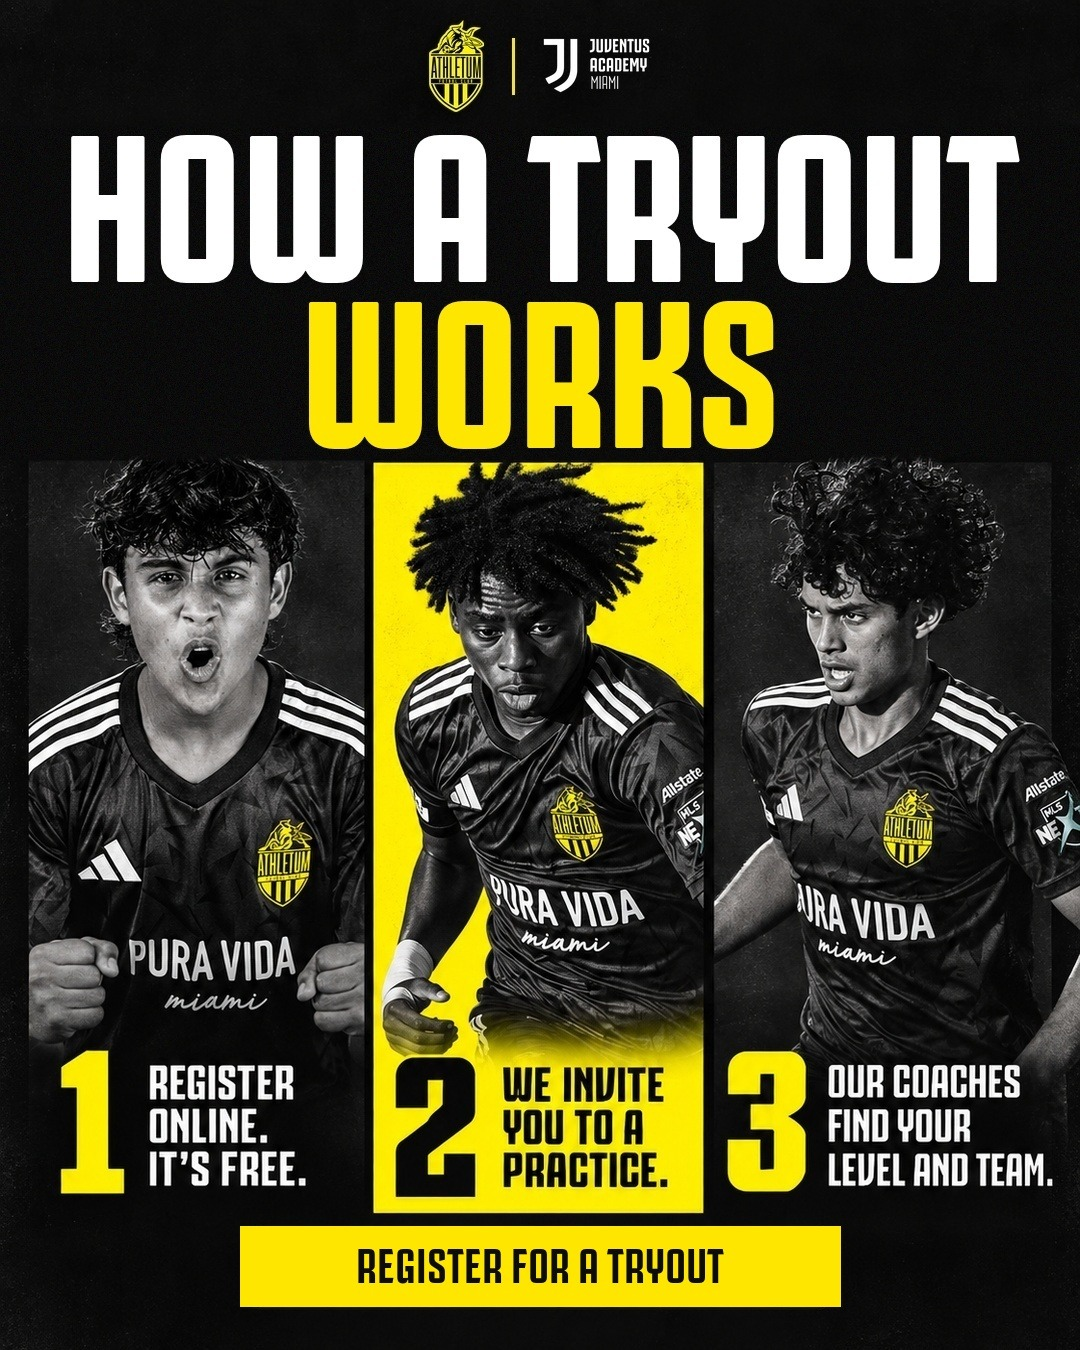
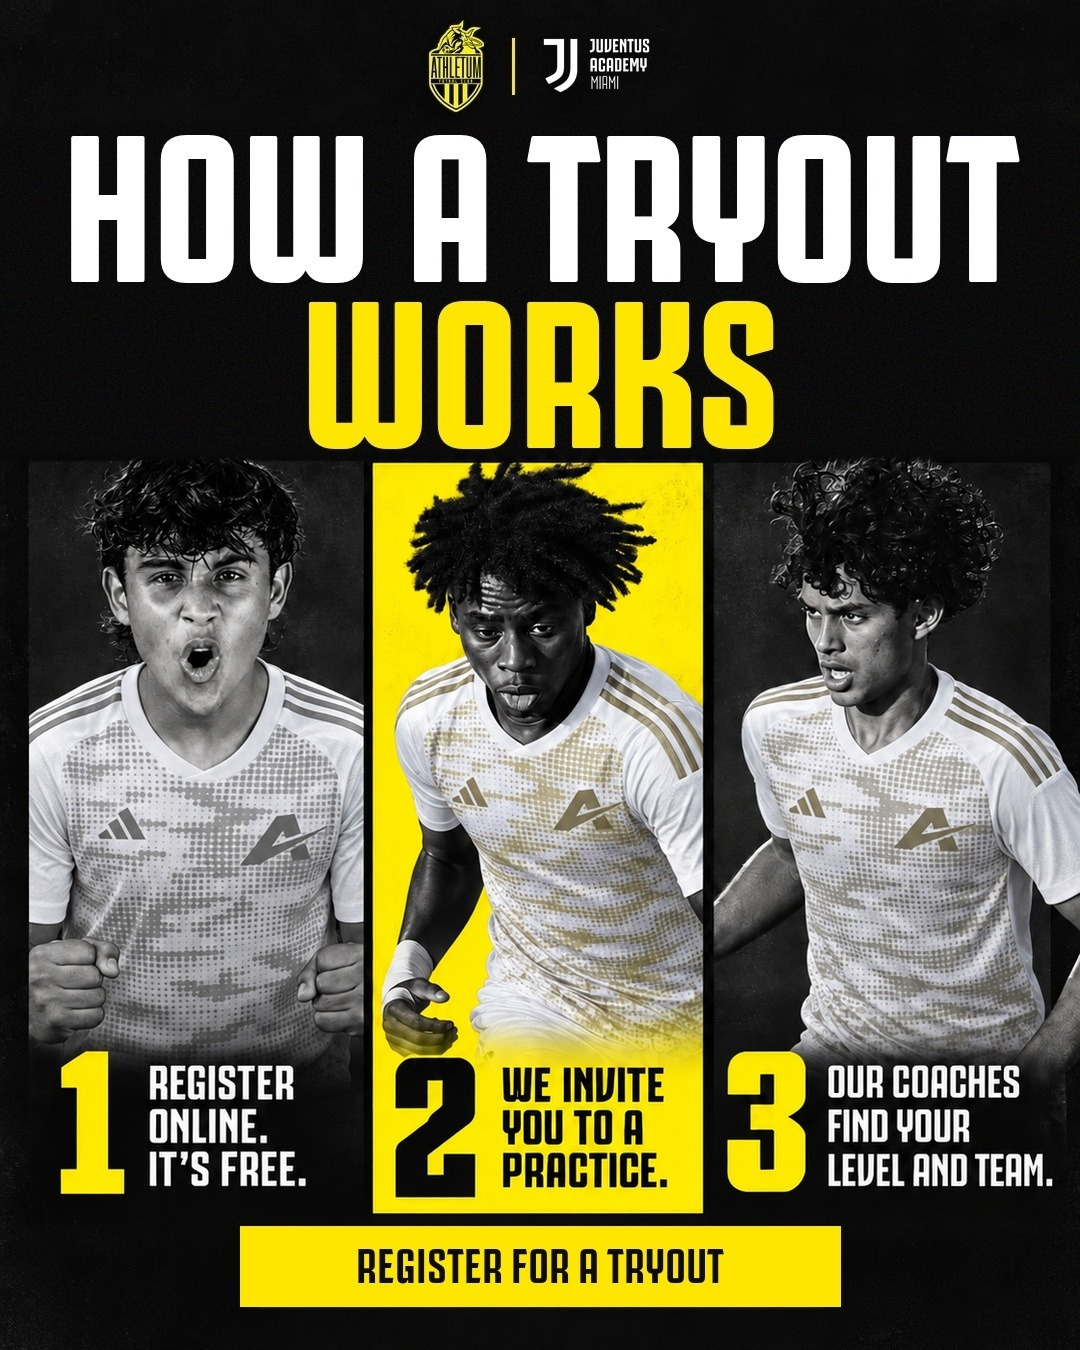
Correcciones de Alessandro (16-10): Pathway v3, How it works v3 con camiseta 2026-27, From Miami to Europe; HERO aprobado

diff --git a/index.html b/index.html
@@ -61,13 +61,14 @@ footer{margin-top:40px;color:var(--muted);font-size:14px;border-top:1px solid va
   </dl>
 </div>
 <p class="como"><b>Qué cambió:</b> el HERO se mantiene. Pathway y "How a tryout works" se rehicieron con ChatGPT con estilos del banco de Pinterest, y se suma un anuncio nuevo con otro enfoque: la experiencia en Italia. Todas las piezas usan jugadores reales de Athletum con su uniforme.</p>
+<p class="como"><b>Correcciones del 16-10:</b> Pathway, How a tryout works y From Miami to Europe se corrigieron según sus notas del 15-10 (cada anuncio explica qué cambió debajo de la pieza). El HERO ya está aprobado.</p>
 <p class="como"><b>Cómo aprobar:</b> si el texto está bien, botón <b>Aprobar</b>. Para corregir el texto o el título, se escribe directamente sobre ellos; el botón pasa a <b>Aprobar con texto corregido</b> y se guarda la versión nueva. También se puede dejar una nota sin aprobar. Todo queda registrado.</p>
 <div class="todo"><span class="cuenta"></span><button type="button">Aprobar todos los que faltan</button></div>
 <article class="ad base" data-id="S1">
   <header><span class="num">1</span><h3>STATIC-1 · HERO &quot;Your next level starts here&quot;</h3><span class="estado" data-estado>Pieza aprobada por David</span></header>
   <div class="cuerpo">
-    <div class="media"><img src="assets/S1.jpg?v=7" alt="STATIC-1 · HERO &quot;Your next level starts here&quot;" loading="lazy">
-      <a class="dl" href="assets/S1_1080.jpg?v=7" target="_blank" rel="noopener">Ver a tamaño real</a>
+    <div class="media"><img src="assets/S1.jpg?v=8" alt="STATIC-1 · HERO &quot;Your next level starts here&quot;" loading="lazy">
+      <a class="dl" href="assets/S1_1080.jpg?v=8" target="_blank" rel="noopener">Ver a tamaño real</a>
       <p class="nota-pieza">Se mantiene (David, 13-10); textos reescritos con la misma letra gruesa de los demás anuncios. Falta aprobar el texto.</p></div>
     <div class="copy">
       <div class="lbl">Texto principal · inglés <span class="hint">· se puede editar</span></div>
@@ -87,16 +88,16 @@ footer{margin-top:40px;color:var(--muted);font-size:14px;border-top:1px solid va
     </div>
   </div>
 </article><article class="ad pend" data-id="S3">
-  <header><span class="num">2</span><h3>STATIC-3 · PATHWAY &quot;One club. The whole pathway.&quot;</h3><span class="estado" data-estado>Nueva · por aprobar</span></header>
+  <header><span class="num">2</span><h3>STATIC-3 · PATHWAY &quot;One club. The whole pathway.&quot;</h3><span class="estado" data-estado>Corregida 16-10 · por aprobar</span></header>
   <div class="cuerpo">
-    <div class="media"><img src="assets/S3.jpg?v=7" alt="STATIC-3 · PATHWAY &quot;One club. The whole pathway.&quot;" loading="lazy">
-      <a class="dl" href="assets/S3_1080.jpg?v=7" target="_blank" rel="noopener">Ver a tamaño real</a>
-      <p class="nota-pieza">Rediseño con ChatGPT: escalera diagonal con los 6 niveles reales (estilo de corte diagonal del banco de Pinterest). Jugador real del MLS NEXT Fest.</p></div>
+    <div class="media"><img src="assets/S3.jpg?v=8" alt="STATIC-3 · PATHWAY &quot;One club. The whole pathway.&quot;" loading="lazy">
+      <a class="dl" href="assets/S3_1080.jpg?v=8" target="_blank" rel="noopener">Ver a tamaño real</a>
+      <p class="nota-pieza">Corregida según sus notas: camiseta de esta temporada; escalera de 3 escalones: Pre-Academy (logo Juventus Academy Miami), Division 3 · 2 · 1 · Elite (logos de EDP Florida, Florida Academy League, South Florida Premier League y National Academy League) y MLS NEXT (Academy y Homegrown juntos, con su logo). El texto también se ajustó a los 3 niveles.</p></div>
     <div class="copy">
       <div class="lbl">Texto principal · inglés <span class="hint">· se puede editar</span></div>
-      <div class="tp ed" contenteditable="true" spellcheck="true" data-campo="texto">Where does your player fit today? 🤔<br><br>Division 3, Division 2, Division 1, Elite, MLS NEXT Academy or MLS NEXT Homegrown: at Athletum FC the whole pathway is in one club, so every player trains at the right level and knows the next step.<br><br>A free tryout tells you where to start 👇</div>
+      <div class="tp ed" contenteditable="true" spellcheck="true" data-campo="texto">Where does your player fit today? 🤔<br><br>Pre-Academy, Division 3, 2, 1, Elite or MLS NEXT: at Athletum FC the whole pathway is in one club, so every player trains at the right level and knows the next step.<br><br>A free tryout tells you where to start 👇</div>
       <div class="lbl">Versión en español, para probar <span class="hint">· se puede editar</span></div>
-      <div class="tp ed es" contenteditable="true" spellcheck="true" data-campo="texto_es">¿En qué nivel está tu hijo hoy? 🤔<br><br>Division 3, 2, 1, Elite, MLS NEXT Academy o MLS NEXT Homegrown: en Athletum FC todo el camino está en un solo club, así que cada jugador entrena en su nivel y sabe cuál es el siguiente paso.<br><br>Un tryout gratis te dice por dónde empezar 👇</div>
+      <div class="tp ed es" contenteditable="true" spellcheck="true" data-campo="texto_es">¿En qué nivel está tu hijo hoy? 🤔<br><br>Pre-Academy, Division 3, 2, 1, Elite o MLS NEXT: en Athletum FC todo el camino está en un solo club, así que cada jugador entrena en su nivel y sabe cuál es el siguiente paso.<br><br>Un tryout gratis te dice por dónde empezar 👇</div>
       <div class="lbl">Título <span class="hint">· se puede editar</span></div>
       <div class="tit ed" contenteditable="true" spellcheck="true" data-campo="titulo">Register for a free tryout</div>
       <div class="lbl">Botón</div><p class="btn">Sign Up</p>
@@ -110,11 +111,11 @@ footer{margin-top:40px;color:var(--muted);font-size:14px;border-top:1px solid va
     </div>
   </div>
 </article><article class="ad pend" data-id="S4">
-  <header><span class="num">3</span><h3>STATIC-4 · HOW A TRYOUT WORKS</h3><span class="estado" data-estado>Nueva · por aprobar</span></header>
+  <header><span class="num">3</span><h3>STATIC-4 · HOW A TRYOUT WORKS</h3><span class="estado" data-estado>Corregida 16-10 · por aprobar</span></header>
   <div class="cuerpo">
-    <div class="media"><img src="assets/S4.jpg?v=7" alt="STATIC-4 · HOW A TRYOUT WORKS" loading="lazy">
-      <a class="dl" href="assets/S4_1080.jpg?v=7" target="_blank" rel="noopener">Ver a tamaño real</a>
-      <p class="nota-pieza">Rediseño con ChatGPT: tres franjas tipo &quot;Matchday&quot; (el mismo formato que se aprobó en Las Vegas), un jugador real por paso.</p></div>
+    <div class="media"><img src="assets/S4.jpg?v=8" alt="STATIC-4 · HOW A TRYOUT WORKS" loading="lazy">
+      <a class="dl" href="assets/S4_1080.jpg?v=8" target="_blank" rel="noopener">Ver a tamaño real</a>
+      <p class="nota-pieza">Corregida según su nota: los tres jugadores con la camiseta de esta temporada (mismas caras y poses; titular, logos y botón sin cambios).</p></div>
     <div class="copy">
       <div class="lbl">Texto principal · inglés <span class="hint">· se puede editar</span></div>
       <div class="tp ed" contenteditable="true" spellcheck="true" data-campo="texto">Thinking about a tryout but not sure how it works?<br><br>1. Register online, it&#x27;s free.<br>2. We invite you to a practice.<br>3. Our coaches find the right level and team for you.<br><br>No pressure, no guesswork. Start here 👇</div>
@@ -133,11 +134,11 @@ footer{margin-top:40px;color:var(--muted);font-size:14px;border-top:1px solid va
     </div>
   </div>
 </article><article class="ad pend" data-id="S5">
-  <header><span class="num">4</span><h3>STATIC-5 · NUEVO ENFOQUE &quot;From Miami to Italy&quot;</h3><span class="estado" data-estado>Nueva · por aprobar</span></header>
+  <header><span class="num">4</span><h3>STATIC-5 · NUEVO ENFOQUE &quot;From Miami to Europe&quot;</h3><span class="estado" data-estado>Corregida 16-10 · por aprobar</span></header>
   <div class="cuerpo">
-    <div class="media"><img src="assets/S5.jpg?v=7" alt="STATIC-5 · NUEVO ENFOQUE &quot;From Miami to Italy&quot;" loading="lazy">
-      <a class="dl" href="assets/S5_1080.jpg?v=7" target="_blank" rel="noopener">Ver a tamaño real</a>
-      <p class="nota-pieza">Enfoque nuevo: la experiencia internacional. Collage de papel rasgado (banco de Pinterest) con fotos reales del viaje a Italia de la temporada 2025-26 (Juventus en Vinovo y Lazio).</p></div>
+    <div class="media"><img src="assets/S5.jpg?v=8" alt="STATIC-5 · NUEVO ENFOQUE &quot;From Miami to Europe&quot;" loading="lazy">
+      <a class="dl" href="assets/S5_1080.jpg?v=8" target="_blank" rel="noopener">Ver a tamaño real</a>
+      <p class="nota-pieza">Corregida según su nota: el titular ahora dice FROM MIAMI TO EUROPE. Collage con fotos reales del viaje a Italia de la temporada 2025-26.</p></div>
     <div class="copy">
       <div class="lbl">Texto principal · inglés <span class="hint">· se puede editar</span></div>
       <div class="tp ed" contenteditable="true" spellcheck="true" data-campo="texto">Last season, our players took the field in Italy against the academies of Juventus, Roma and Lazio. 🇮🇹⚽<br><br>At Athletum FC the pathway goes beyond Miami: MLS NEXT competition at home and international experiences that show players what the next level looks like.<br><br>It all starts with one free tryout. Register in two minutes 👇</div>
@@ -155,11 +156,11 @@ footer{margin-top:40px;color:var(--muted);font-size:14px;border-top:1px solid va
       <p class="aviso" data-aviso aria-live="polite"></p>
     </div>
   </div>
-</article><footer>Athletum FC · Revisión de anuncios de la campaña de tryouts · 13-10-2026 · Página interna, no indexada.</footer>
+</article><footer>Athletum FC · Revisión de anuncios de la campaña de tryouts · actualizada el 16-10-2026 · Página interna, no indexada.</footer>
 </div>
 <script>
 const CFG={"accion": "https://docs.google.com/forms/d/e/1FAIpQLSeGUY8Cv9Ea08X9HkdznY9pzVoUc4Gj-GdymsVTFP86wbE5sw/formResponse", "entry": {"pieza": 333677581, "cuenta": 724853821, "autor": 299801437, "comentario": 1175231019, "copy_corregido": 1649408514, "copy_original": 1637675582, "enviado": 909195940, "tipo": 1605073129, "zona": 1831673234, "fila": 1327618412}, "cuenta": "athletum_tryouts"};
-const ORIG={"S1": {"texto": "Your next level starts here. ⚽\n\nAthletum FC is the competitive pathway of Juventus Academy Miami: from our competitive divisions all the way to MLS NEXT, boys and girls train with coaches who know what the next level demands.\n\nThe first step is one tryout, and it's free. Register in two minutes 👇", "texto_es": "Tu próximo nivel empieza aquí. ⚽\n\nAthletum FC es el camino competitivo de Juventus Academy Miami: desde las divisiones competitivas hasta MLS NEXT, con entrenadores que saben lo que exige el siguiente nivel.\n\nEl primer paso es un tryout, y es gratis. Regístrate en dos minutos 👇", "titulo": "Register for a free tryout", "nombre": "STATIC-1 · HERO \"Your next level starts here\""}, "S3": {"texto": "Where does your player fit today? 🤔\n\nDivision 3, Division 2, Division 1, Elite, MLS NEXT Academy or MLS NEXT Homegrown: at Athletum FC the whole pathway is in one club, so every player trains at the right level and knows the next step.\n\nA free tryout tells you where to start 👇", "texto_es": "¿En qué nivel está tu hijo hoy? 🤔\n\nDivision 3, 2, 1, Elite, MLS NEXT Academy o MLS NEXT Homegrown: en Athletum FC todo el camino está en un solo club, así que cada jugador entrena en su nivel y sabe cuál es el siguiente paso.\n\nUn tryout gratis te dice por dónde empezar 👇", "titulo": "Register for a free tryout", "nombre": "STATIC-3 · PATHWAY \"One club. The whole pathway.\""}, "S4": {"texto": "Thinking about a tryout but not sure how it works?\n\n1. Register online, it's free.\n2. We invite you to a practice.\n3. Our coaches find the right level and team for you.\n\nNo pressure, no guesswork. Start here 👇", "texto_es": "¿Quieres hacer un tryout y no sabes cómo funciona?\n\n1. Te registras en línea, es gratis.\n2. Te invitamos a una práctica.\n3. Nuestros entrenadores encuentran tu nivel y tu equipo.\n\nSin presión y sin adivinar. Empieza aquí 👇", "titulo": "Register for a free tryout", "nombre": "STATIC-4 · HOW A TRYOUT WORKS"}, "S5": {"texto": "Last season, our players took the field in Italy against the academies of Juventus, Roma and Lazio. 🇮🇹⚽\n\nAt Athletum FC the pathway goes beyond Miami: MLS NEXT competition at home and international experiences that show players what the next level looks like.\n\nIt all starts with one free tryout. Register in two minutes 👇", "texto_es": "La temporada pasada nuestros jugadores jugaron en Italia contra las academias de Juventus, Roma y Lazio. 🇮🇹⚽\n\nEn Athletum FC el camino va más allá de Miami: competencia MLS NEXT en casa y experiencias internacionales que muestran cómo es el siguiente nivel.\n\nTodo empieza con un tryout gratis. Regístrate en dos minutos 👇", "titulo": "Register for a free tryout", "nombre": "STATIC-5 · NUEVO ENFOQUE \"From Miami to Italy\""}};
+const ORIG={"S1": {"texto": "Your next level starts here. ⚽\n\nAthletum FC is the competitive pathway of Juventus Academy Miami: from our competitive divisions all the way to MLS NEXT, boys and girls train with coaches who know what the next level demands.\n\nThe first step is one tryout, and it's free. Register in two minutes 👇", "texto_es": "Tu próximo nivel empieza aquí. ⚽\n\nAthletum FC es el camino competitivo de Juventus Academy Miami: desde las divisiones competitivas hasta MLS NEXT, con entrenadores que saben lo que exige el siguiente nivel.\n\nEl primer paso es un tryout, y es gratis. Regístrate en dos minutos 👇", "titulo": "Register for a free tryout", "nombre": "STATIC-1 · HERO \"Your next level starts here\""}, "S3": {"texto": "Where does your player fit today? 🤔\n\nPre-Academy, Division 3, 2, 1, Elite or MLS NEXT: at Athletum FC the whole pathway is in one club, so every player trains at the right level and knows the next step.\n\nA free tryout tells you where to start 👇", "texto_es": "¿En qué nivel está tu hijo hoy? 🤔\n\nPre-Academy, Division 3, 2, 1, Elite o MLS NEXT: en Athletum FC todo el camino está en un solo club, así que cada jugador entrena en su nivel y sabe cuál es el siguiente paso.\n\nUn tryout gratis te dice por dónde empezar 👇", "titulo": "Register for a free tryout", "nombre": "STATIC-3 · PATHWAY \"One club. The whole pathway.\""}, "S4": {"texto": "Thinking about a tryout but not sure how it works?\n\n1. Register online, it's free.\n2. We invite you to a practice.\n3. Our coaches find the right level and team for you.\n\nNo pressure, no guesswork. Start here 👇", "texto_es": "¿Quieres hacer un tryout y no sabes cómo funciona?\n\n1. Te registras en línea, es gratis.\n2. Te invitamos a una práctica.\n3. Nuestros entrenadores encuentran tu nivel y tu equipo.\n\nSin presión y sin adivinar. Empieza aquí 👇", "titulo": "Register for a free tryout", "nombre": "STATIC-4 · HOW A TRYOUT WORKS"}, "S5": {"texto": "Last season, our players took the field in Italy against the academies of Juventus, Roma and Lazio. 🇮🇹⚽\n\nAt Athletum FC the pathway goes beyond Miami: MLS NEXT competition at home and international experiences that show players what the next level looks like.\n\nIt all starts with one free tryout. Register in two minutes 👇", "texto_es": "La temporada pasada nuestros jugadores jugaron en Italia contra las academias de Juventus, Roma y Lazio. 🇮🇹⚽\n\nEn Athletum FC el camino va más allá de Miami: competencia MLS NEXT en casa y experiencias internacionales que muestran cómo es el siguiente nivel.\n\nTodo empieza con un tryout gratis. Regístrate en dos minutos 👇", "titulo": "Register for a free tryout", "nombre": "STATIC-5 · NUEVO ENFOQUE \"From Miami to Europe\""}};
 
 const LSK='ath_tryouts_v1',CAMPOS=['texto','texto_es','titulo'];
 const LS={get(){try{return JSON.parse(localStorage.getItem(LSK)||'{}')}catch(e){return {}}},set(v){try{localStorage.setItem(LSK,JSON.stringify(v))}catch(e){}}};
